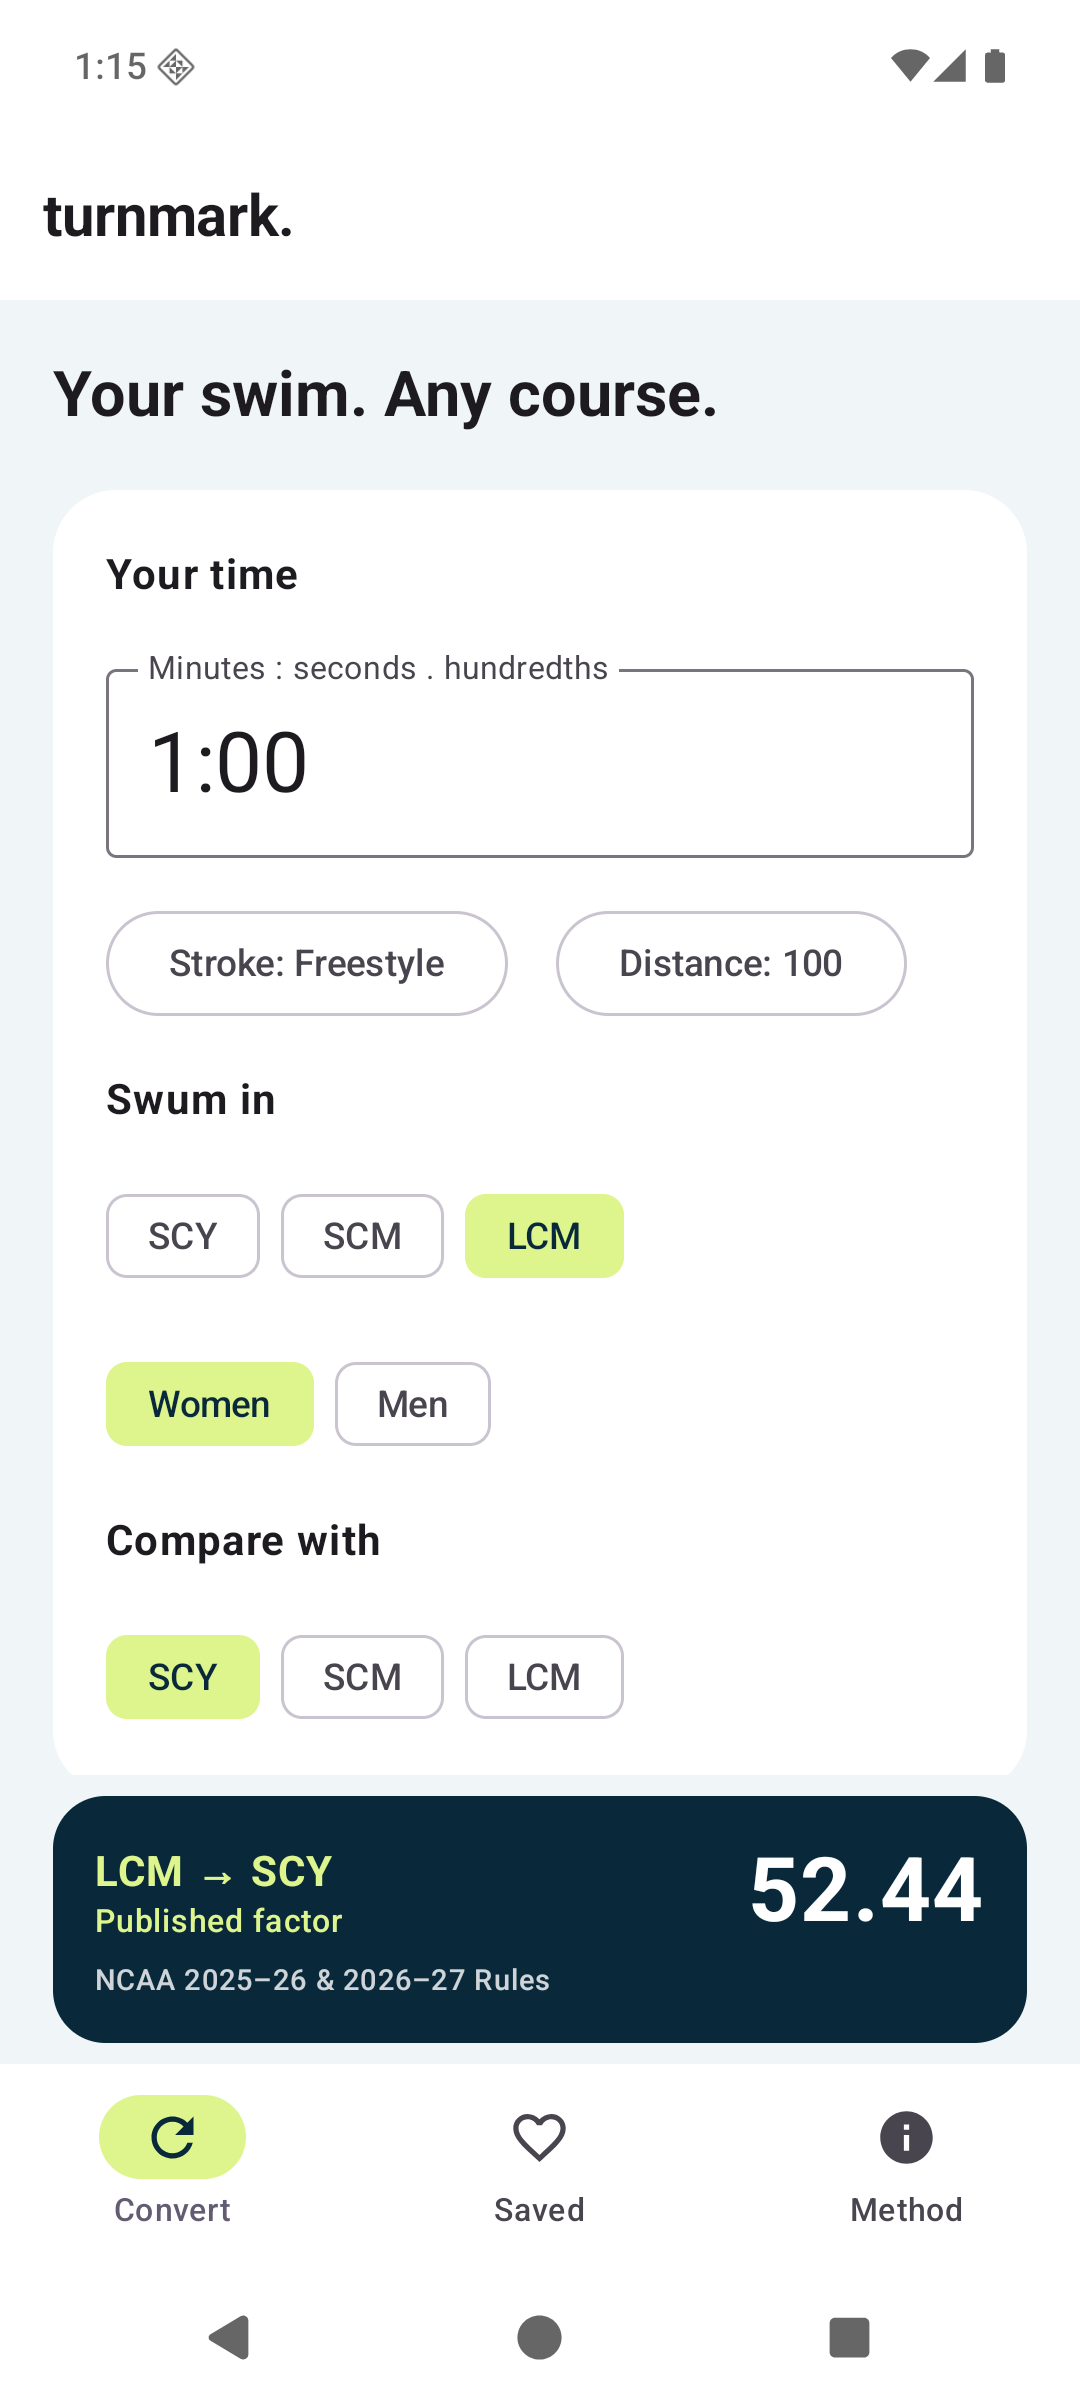
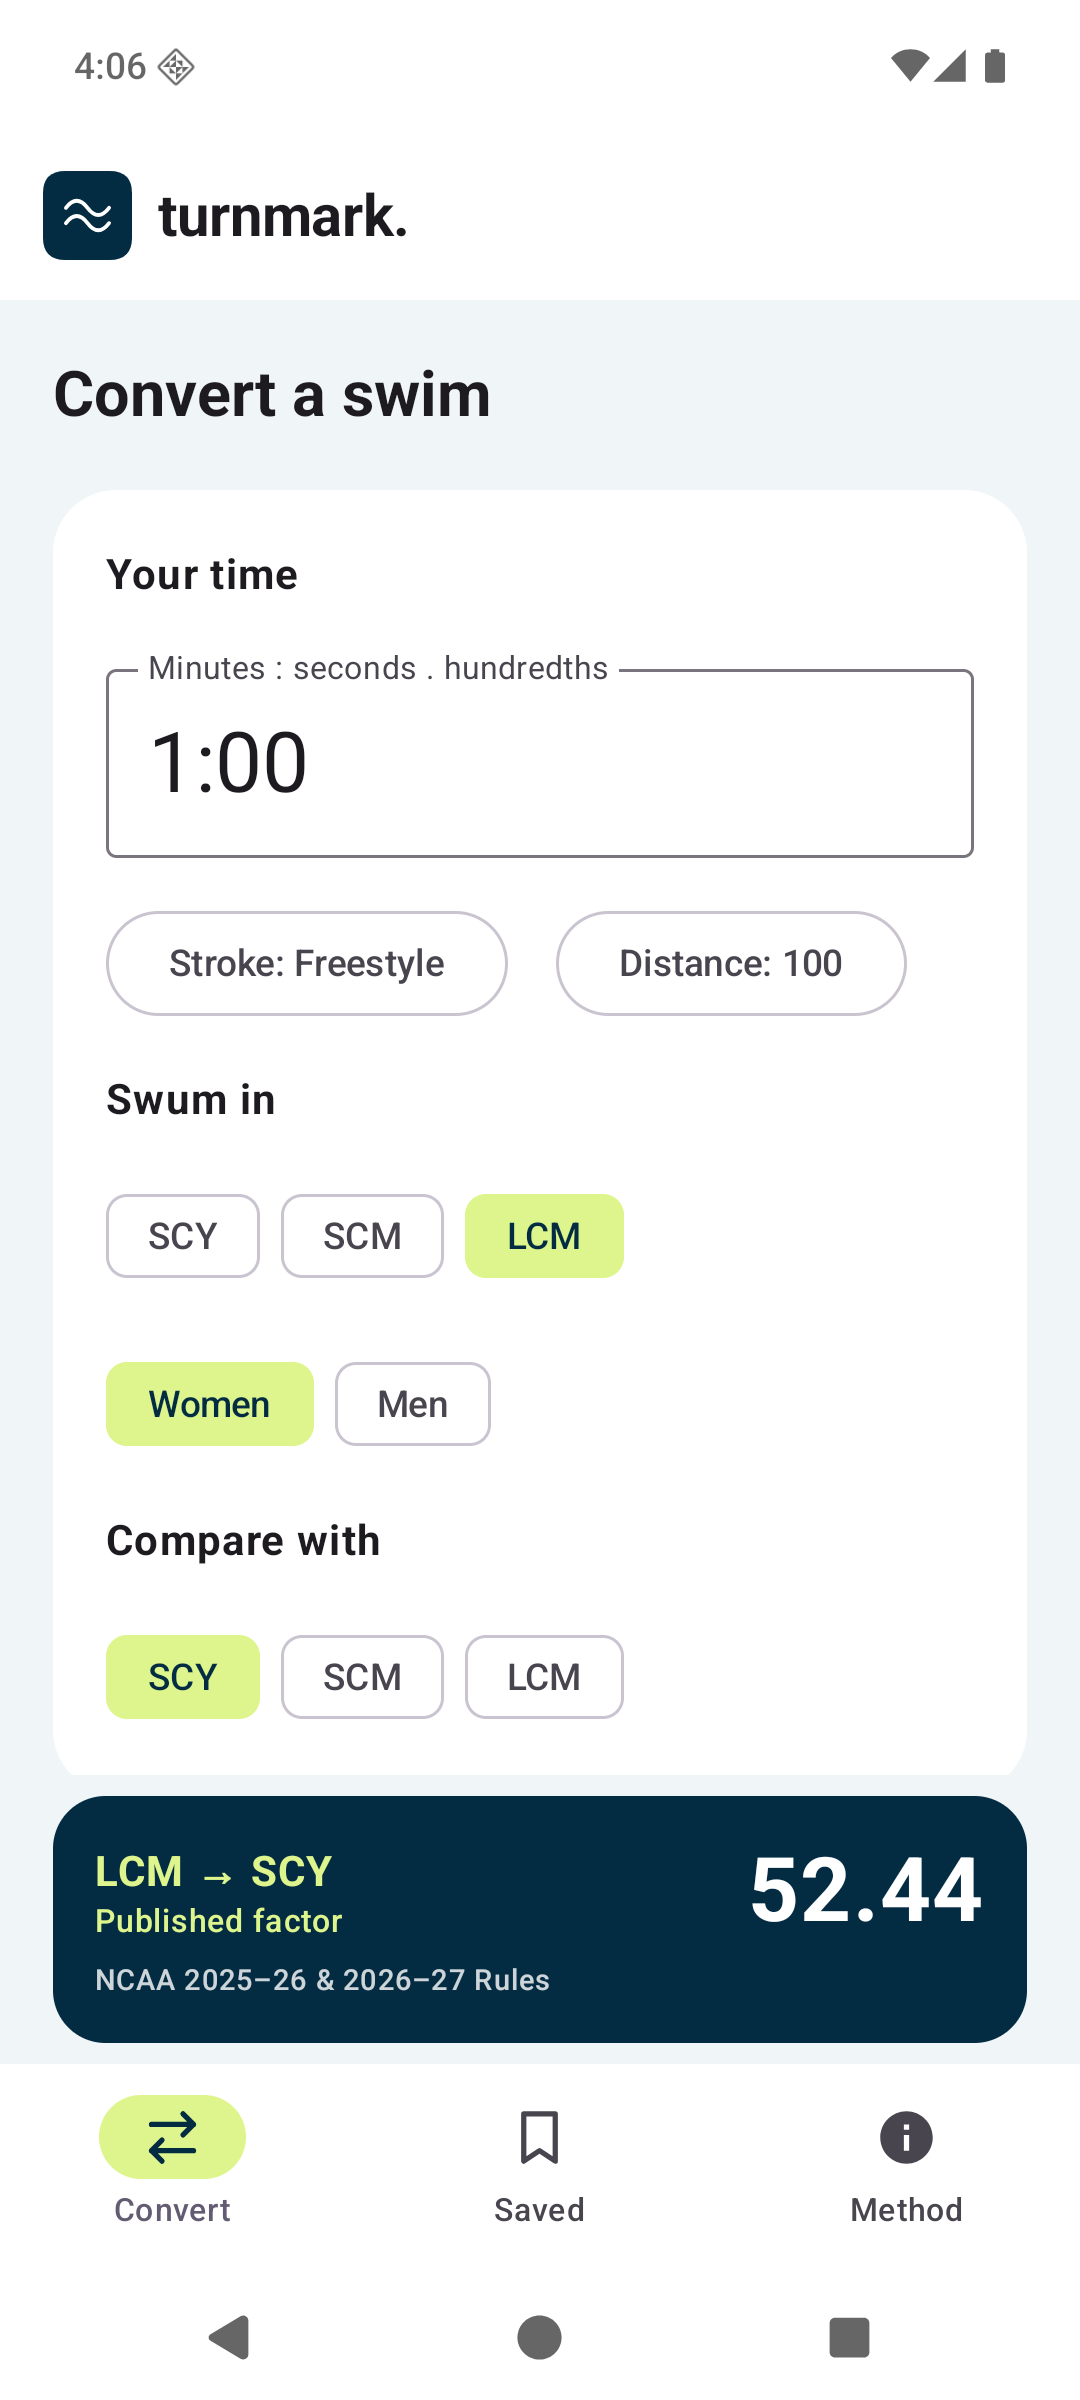
Add native branding and adopt system Liquid Glass controls

diff --git a/apps/ios/Sources/TurnmarkApp.swift b/apps/ios/Sources/TurnmarkApp.swift
@@ -1,8 +1,8 @@
 import SwiftUI
 import TurnmarkCore
 
-private let ink = Color(red: 0.035, green: 0.16, blue: 0.23)
-private let lime = Color(red: 0.87, green: 0.96, blue: 0.55)
+private let ink = Color(red: 3 / 255, green: 44 / 255, blue: 67 / 255)
+private let lime = Color(red: 221 / 255, green: 245 / 255, blue: 140 / 255)
 private let courseNames = ["SCY", "SCM", "LCM"]
 private let courses: [Course] = [.scy, .scm, .lcm]
 private let strokeNames = ["Freestyle", "Backstroke", "Breaststroke", "Butterfly", "Individual medley"]
@@ -78,11 +78,8 @@ private struct TurnmarkView: View {
         TabView(selection: $tab) {
             NavigationStack {
                 ScrollView {
-                    VStack(alignment: .leading, spacing: 24) {
-                        HStack(spacing: 10) {
-                            Image(systemName: "water.waves").font(.title).foregroundStyle(.teal)
-                            Text("Your swim. Any course.").font(.title2.bold())
-                        }.accessibilityAddTraits(.isHeader)
+                    VStack(alignment: .leading, spacing: 20) {
+                        Text("Convert a swim").font(.title2.bold()).accessibilityAddTraits(.isHeader)
                         inputCard
                         HStack {
                             Button { savedJSON = draft.encoded } label: { Label("Save swim", systemImage: "bookmark") }
@@ -90,17 +87,19 @@ private struct TurnmarkView: View {
                             Spacer()
                             ShareLink(item: draft.shareURL) { Label("Share", systemImage: "square.and.arrow.up") }
                                 .accessibilityIdentifier("shareSwim")
-                        }.buttonStyle(.bordered).disabled(!draft.available)
+                        }.modifier(SwimActionsStyle()).disabled(!draft.available)
                         Text("Calculated on your device. Works offline.")
                             .font(.footnote).foregroundStyle(.secondary)
                     }.padding()
                 }
-                .safeAreaInset(edge: .bottom, spacing: 0) {
-                    resultSummary.padding(.horizontal).padding(.vertical, 8).background(.regularMaterial)
-                }
+                .modifier(ConversionResultBar(summary: resultSummary))
                 .background(Color(uiColor: .systemGroupedBackground))
                 .navigationTitle("turnmark.")
-                .toolbar { if editingTime { ToolbarItemGroup(placement: .keyboard) { Spacer(); Button("Done") { editingTime = false } } } }
+                .navigationBarTitleDisplayMode(.inline)
+                .toolbar {
+                    ToolbarItem(placement: .principal) { BrandHeader() }
+                    if editingTime { ToolbarItemGroup(placement: .keyboard) { Spacer(); Button("Done") { editingTime = false } } }
+                }
             }.tabItem { Label("Convert", systemImage: "arrow.left.arrow.right") }.tag(0)
             NavigationStack {
                 ScrollView {
@@ -168,7 +167,7 @@ private struct TurnmarkView: View {
     }
 
     private var inputCard: some View {
-        VStack(alignment: .leading, spacing: 20) {
+        VStack(alignment: .leading, spacing: 16) {
             Text("Your time").font(.headline)
             TextField("58.32", text: $draft.time)
                 .font(.system(size: 42, weight: .semibold, design: .rounded)).monospacedDigit()
@@ -178,11 +177,11 @@ private struct TurnmarkView: View {
             HStack {
                 Picker("Stroke", selection: $draft.strokeIndex) {
                     ForEach(strokeNames.indices, id: \.self) { Text(strokeNames[$0]).tag($0) }
-                }.accessibilityIdentifier("strokePicker")
+                }.accessibilityIdentifier("strokePicker").layoutPriority(1)
                 Spacer()
                 Picker("Distance", selection: $draft.distance) {
                     ForEach(draft.options, id: \.event.distance) { Text(String($0.event.distance)).tag($0.event.distance) }
-                }.accessibilityIdentifier("distancePicker")
+                }.accessibilityIdentifier("distancePicker").fixedSize(horizontal: true, vertical: false)
             }
             Text("Swum in").font(.subheadline.bold())
             Picker("Swum in", selection: $draft.courseIndex) {
@@ -202,7 +201,7 @@ private struct TurnmarkView: View {
         VStack(alignment: .leading, spacing: 14) {
             HStack {
                 Text("\(courseNames[input.courseIndex]) → \(courseNames[input.targetIndex])").font(.subheadline.weight(.semibold))
-                Spacer(); Image(systemName: "water.waves")
+                Spacer(); Image("BrandMark").resizable().frame(width: 32, height: 32).clipShape(.rect(cornerRadius: 9)).accessibilityHidden(true)
             }.foregroundStyle(lime)
             switch input.outcome {
             case let .available(value, source):
@@ -222,5 +221,45 @@ private struct TurnmarkView: View {
             }
         }.frame(maxWidth: .infinity, alignment: .leading).padding(24)
             .foregroundStyle(.white).background(ink, in: RoundedRectangle(cornerRadius: 24))
+    }
+}
+
+// Standard navigation and pickers inherit Liquid Glass from the current SDK.
+// Keep the result and input surfaces opaque so the numbers remain easy to read.
+private struct SwimActionsStyle: ViewModifier {
+    @ViewBuilder func body(content: Content) -> some View {
+        if #available(iOS 26.0, *) {
+            GlassEffectContainer(spacing: 16) {
+                content.buttonStyle(.glass).controlSize(.large)
+            }
+        } else {
+            content.buttonStyle(.bordered).controlSize(.large)
+        }
+    }
+}
+
+private struct BrandHeader: View {
+    var body: some View {
+        HStack(spacing: 8) {
+            Image("BrandMark").resizable().frame(width: 32, height: 32)
+                .clipShape(.rect(cornerRadius: 10)).accessibilityHidden(true)
+            Text("turnmark.").font(.title3.bold())
+        }.accessibilityElement(children: .combine).accessibilityLabel("Turnmark")
+    }
+}
+
+private struct ConversionResultBar<Summary: View>: ViewModifier {
+    let summary: Summary
+
+    @ViewBuilder func body(content: Content) -> some View {
+        if #available(iOS 26.0, *) {
+            content.safeAreaBar(edge: .bottom, spacing: 0) {
+                summary.padding(.horizontal).padding(.vertical, 8)
+            }
+        } else {
+            content.safeAreaInset(edge: .bottom, spacing: 0) {
+                summary.padding(.horizontal).padding(.vertical, 8).background(.regularMaterial)
+            }
+        }
     }
 }

diff --git a/apps/android/src/main/java/net/stanback/turnmark/MainActivity.kt b/apps/android/src/main/java/net/stanback/turnmark/MainActivity.kt
@@ -19,10 +19,12 @@ import androidx.compose.material.icons.Icons
 import androidx.compose.material.icons.filled.*
 import androidx.compose.material3.*
 import androidx.compose.runtime.*
+import androidx.compose.ui.Alignment
 import androidx.compose.ui.Modifier
 import androidx.compose.ui.graphics.Color
 import androidx.compose.ui.platform.LocalContext
 import androidx.compose.ui.platform.testTag
+import androidx.compose.ui.res.painterResource
 import androidx.compose.ui.text.font.FontWeight
 import androidx.compose.ui.text.input.KeyboardType
 import androidx.compose.ui.unit.dp
@@ -30,7 +32,7 @@ import androidx.compose.ui.unit.sp
 import org.json.JSONObject
 import uniffi.turnmark_core.*
 
-private val Ink = Color(0xFF09293B)
+private val Ink = Color(0xFF032C43)
 private val Lime = Color(0xFFDDF58C)
 private val courses = Course.entries
 private val strokes = Stroke.entries
@@ -106,7 +108,13 @@ private fun share(context: Context, draft: Draft) {
         surface = Color(0xFF122C3C), background = Color(0xFF091F2D))
         else lightColorScheme(primary = Ink, secondaryContainer = Lime, onSecondaryContainer = Ink,
             background = Color(0xFFF0F5F8), surface = Color.White)) {
-        Scaffold(topBar = { TopAppBar(title = { Text(if (tab == 0) "turnmark." else if (tab == 1) "Saved swim" else "The method", fontWeight = FontWeight.Bold) }) },
+        Scaffold(topBar = { TopAppBar(title = {
+            Row(verticalAlignment = Alignment.CenterVertically, horizontalArrangement = Arrangement.spacedBy(10.dp)) {
+                if (tab == 0) Icon(painterResource(R.drawable.brand_mark), contentDescription = null,
+                    tint = Color.Unspecified, modifier = Modifier.size(34.dp))
+                Text(if (tab == 0) "turnmark." else if (tab == 1) "Saved swim" else "The method", fontWeight = FontWeight.Bold)
+            }
+        }) },
             bottomBar = {
               Column {
                 if (tab == 0) ResultSummary(draft)
@@ -114,7 +122,10 @@ private fun share(context: Context, draft: Draft) {
                     listOf("Convert", "Saved", "Method").forEachIndexed { index, label ->
                         NavigationBarItem(selected = tab == index, onClick = { tab = index },
                             modifier = Modifier.testTag("nav-$label"), label = { Text(label) },
-                            icon = { Icon(when (index) { 0 -> Icons.Default.Refresh; 1 -> Icons.Default.FavoriteBorder; else -> Icons.Default.Info }, contentDescription = null) })
+                            icon = {
+                                if (index == 2) Icon(Icons.Default.Info, contentDescription = null)
+                                else Icon(painterResource(if (index == 0) R.drawable.ic_convert else R.drawable.ic_bookmark), contentDescription = null)
+                            })
                     }
                 }
               }
@@ -123,7 +134,7 @@ private fun share(context: Context, draft: Draft) {
                 verticalArrangement = Arrangement.spacedBy(20.dp)) {
                 when (tab) {
                     0 -> {
-                        Text("Your swim. Any course.", style = MaterialTheme.typography.headlineSmall, fontWeight = FontWeight.Bold)
+                        Text("Convert a swim", style = MaterialTheme.typography.headlineSmall, fontWeight = FontWeight.Bold)
                         Card(shape = RoundedCornerShape(24.dp), colors = CardDefaults.cardColors(containerColor = MaterialTheme.colorScheme.surface)) {
                             Column(Modifier.padding(20.dp), verticalArrangement = Arrangement.spacedBy(16.dp)) {
                                 Text("Your time", fontWeight = FontWeight.Bold)

diff --git a/apps/android/src/androidTest/java/net/stanback/turnmark/ConverterTest.kt b/apps/android/src/androidTest/java/net/stanback/turnmark/ConverterTest.kt
@@ -1,8 +1,10 @@
 package net.stanback.turnmark
 
 import android.content.Context
+import android.graphics.Bitmap
 import androidx.compose.ui.test.*
 import androidx.compose.ui.test.junit4.createAndroidComposeRule
+import androidx.test.platform.app.InstrumentationRegistry
 import androidx.test.core.app.ApplicationProvider
 import androidx.test.ext.junit.runners.AndroidJUnit4
 import org.junit.Before
@@ -28,8 +30,28 @@ class ConverterTest {
         compose.activityRule.scenario.recreate()
         compose.onNodeWithTag("nav-Saved").performClick()
         compose.onNodeWithTag("resultTime").assertTextEquals("52.44")
+        capture("android-saved")
+        compose.onNodeWithTag("nav-Method").performClick()
+        compose.onNodeWithText("How comparisons work").assertExists()
+        capture("android-method")
+        compose.onNodeWithTag("nav-Saved").performClick()
         compose.onNodeWithText("Use this swim").performScrollTo().performClick()
-        compose.onNodeWithTag("timeInput").assertTextContains("1:00")
+        compose.onNodeWithTag("timeInput").assertTextContains("1:00").performScrollTo()
+        capture("android-converter")
+    }
+
+    // Opt-in full-device screenshots for local visual review; ordinary CI needs
+    // no external storage permissions and still checks all three screens.
+    private fun capture(name: String) {
+        val instrumentation = InstrumentationRegistry.getInstrumentation()
+        if (InstrumentationRegistry.getArguments().getString("turnmarkScreenshots") != "true") return
+        compose.waitForIdle()
+        val bitmap = instrumentation.uiAutomation.takeScreenshot()
+        try {
+            instrumentation.targetContext.openFileOutput("$name.png", Context.MODE_PRIVATE).use {
+                bitmap.compress(Bitmap.CompressFormat.PNG, 100, it)
+            }
+        } finally { bitmap.recycle() }
     }
 
     @Test fun invalidTimeHasNoResult() {

diff --git a/apps/ios/UITests/TurnmarkUITests.swift b/apps/ios/UITests/TurnmarkUITests.swift
@@ -15,19 +15,36 @@ final class TurnmarkUITests: XCTestCase {
         app.segmentedControls["targetCourse"].buttons["SCY"].tap()
         XCTAssertTrue(app.segmentedControls["targetCourse"].buttons["SCY"].isSelected)
         XCTAssertEqual(app.staticTexts["resultTime"].label, "52.44")
-        let screenshot = XCTAttachment(screenshot: app.screenshot())
-        screenshot.name = "Native converter"
-        screenshot.lifetime = .keepAlways
-        add(screenshot)
+        capture(app, "Native converter")
         app.swipeUp()
         app.buttons["saveSwim"].tap()
         app.terminate()
         app.launchArguments = []
         app.launch()
+        XCTAssertTrue(app.staticTexts["resultTime"].waitForExistence(timeout: 10))
+        XCTAssertEqual(app.staticTexts["resultTime"].label, "52.44")
         app.tabBars.buttons["Saved"].tap()
         XCTAssertEqual(app.staticTexts["resultTime"].label, "52.44")
+        capture(app, "Saved swim")
+        app.tabBars.buttons["Method"].tap()
+        XCTAssertTrue(app.staticTexts["How comparisons work"].exists)
+        capture(app, "Method")
+        let appearance = XCUIDevice.shared.appearance
+        defer { XCUIDevice.shared.appearance = appearance }
+        XCUIDevice.shared.appearance = .dark
+        capture(app, "Method dark")
+        app.tabBars.buttons["Saved"].tap()
+        capture(app, "Saved swim dark")
         app.buttons["Use this swim"].tap()
         XCTAssertEqual(app.textFields["timeInput"].value as? String, "1:00")
+        capture(app, "Native converter dark")
+    }
+
+    @MainActor private func capture(_ app: XCUIApplication, _ name: String) {
+        let screenshot = XCTAttachment(screenshot: app.screenshot())
+        screenshot.name = name
+        screenshot.lifetime = .keepAlways
+        add(screenshot)
     }
 
     @MainActor func testInvalidTimeDoesNotProduceResult() {

diff --git a/docs/NATIVE_APPS.md b/docs/NATIVE_APPS.md
@@ -15,11 +15,15 @@ offline on first launch, and use the same source editions and outcomes.
   sharing. Share links still open the existing GitHub Pages app. The
   `turnmark.app` website migration is a separate PR.
 - Convert, Saved and Method screens, system appearance, scalable native text
-  and native accessibility semantics.
+  and native accessibility semantics. The shared wave mark appears in app headers
+  and launcher icons; see [brand asset generation](BRANDING.md).
+- iOS uses system Liquid Glass navigation, pickers and glass Save/Share buttons
+  on iOS 26+. Input and result cards retain opaque, readable surfaces. Older
+  supported versions use standard bordered buttons.
 
 This is the first converter workflow, not full web feature parity. Native youth
-and Masters benchmarks, points, altitude entry, full history/export, application
-icons/store artwork, verified app links and final release targets remain later
+and Masters benchmarks, points, altitude entry, full history/export,
+layered iOS icon/store artwork, verified app links and final release targets remain later
 work. Physical-device, VoiceOver/TalkBack, large-text and 16 KB Android runtime
 checks are release gates; automated simulator tests do not establish those.
 Bundle/application ID `net.stanback.turnmark`, iOS 17 minimum and Android API 26
@@ -27,7 +31,7 @@ minimum are provisional until release configuration is finalized.
 
 ## iOS
 
-Install Xcode with an iOS simulator and the Rust targets listed in
+Use current stable Xcode 27.1 with an iOS 27 simulator and the Rust targets listed in
 [the engine guide](SHARED_ENGINE.md), then:
 
 ```sh
@@ -77,7 +81,10 @@ after the test APK could not install on a still-booting emulator.
 
 Pull-request checks run Rust/web tests, unsigned iOS simulator builds/UI tests,
 and Android debug builds/emulator tests. They use `contents: read` and contain no
-Cloudflare, Apple signing or store-upload credentials. Test artifacts expire
+Cloudflare, Apple signing or store-upload credentials. The iOS job uses the
+`xcode-27` runner, pins Xcode 27.1 and verifies SDK 27.1 before building. Simulator
+selection prefers the latest installed iOS runtime; CI requires iOS 27. Local
+visual checks can also run on older supported runtimes. Test artifacts expire
 after seven days. The existing website deployment remains a main-branch-only
 job with its own permissions; do not use `pull_request_target` to execute PR code.
 

diff --git a/docs/BRANDING.md b/docs/BRANDING.md
@@ -1,0 +1,22 @@
+# Turnmark mark
+
+The two-wave mark in `public/icons/app-icon.svg` is shared by the website and
+native apps. The native headers pair it with the system-font `turnmark.`
+wordmark. The navy field and white waves remain legible at launcher-icon sizes;
+the platforms supply their own icon masks.
+
+After editing the canonical SVG, regenerate the native assets:
+
+```sh
+# With npm dependencies and Playwright Chromium installed:
+node scripts/generate-brand-assets.mjs
+```
+
+The exporter writes the iOS vector header asset and opaque 1024px app icon,
+Android vector header mark, adaptive launcher foreground/background, and Android
+13+ monochrome icon. Commit those generated resources. Ordinary native builds
+do not need Node or a browser to produce their icons.
+
+The iOS icon is a flat asset-catalog icon for now. Layered Icon Composer artwork
+and its light/dark/clear/tinted previews remain part of store-artwork refinement.
+No lighting, rounded mask, or simulated glass is baked into the app icon.
